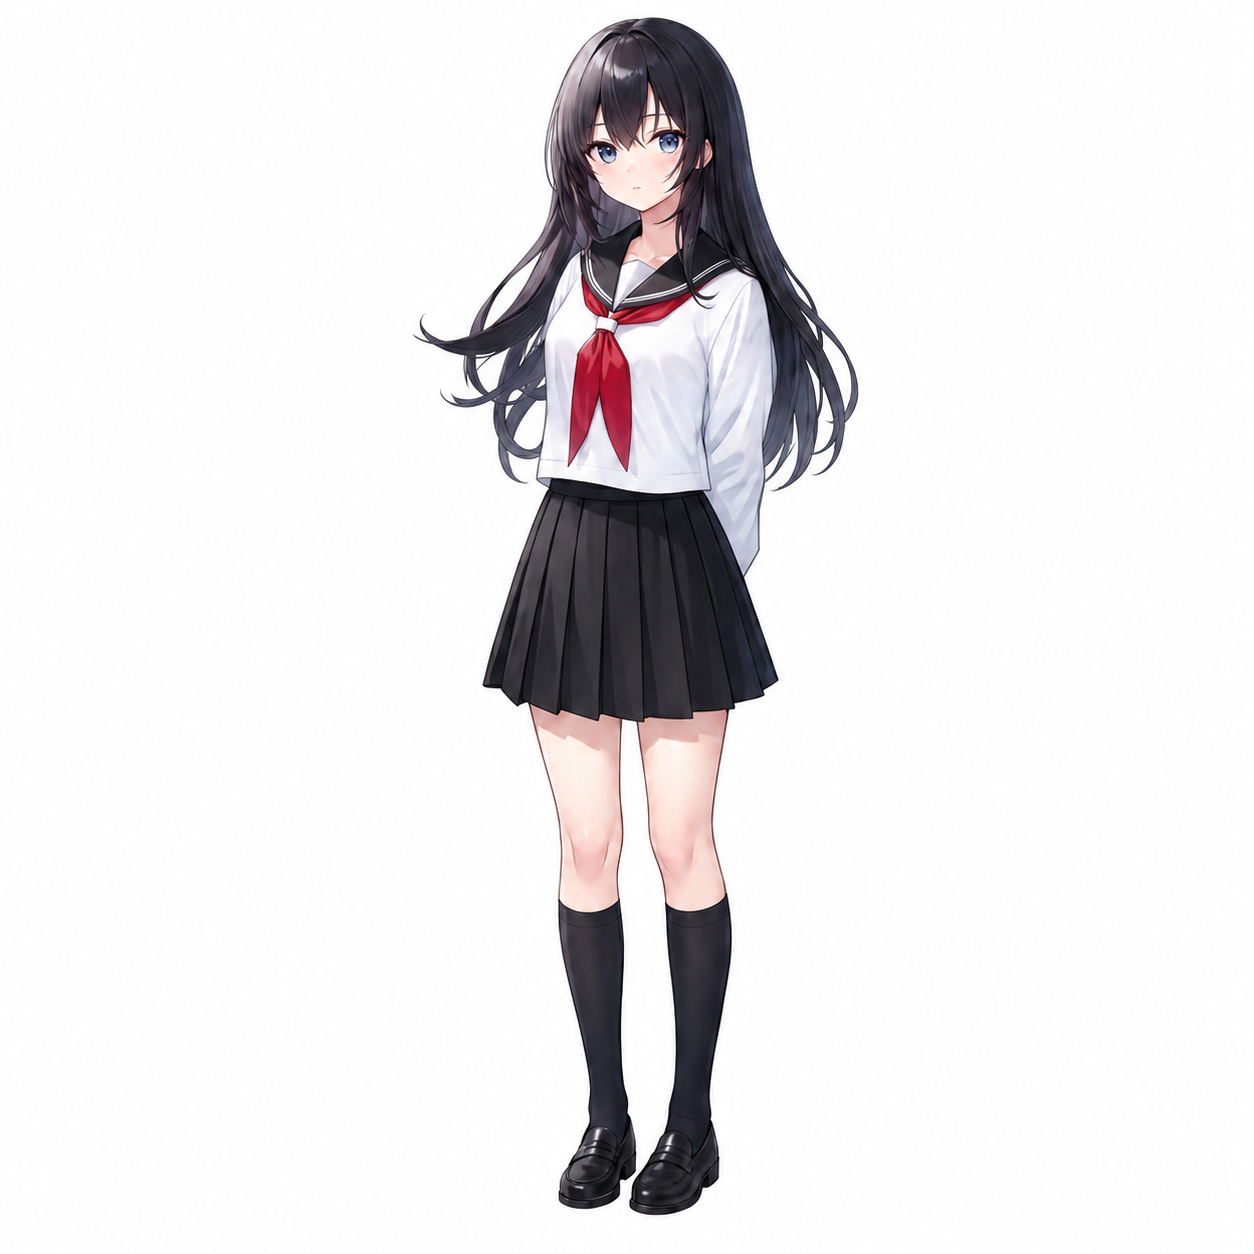
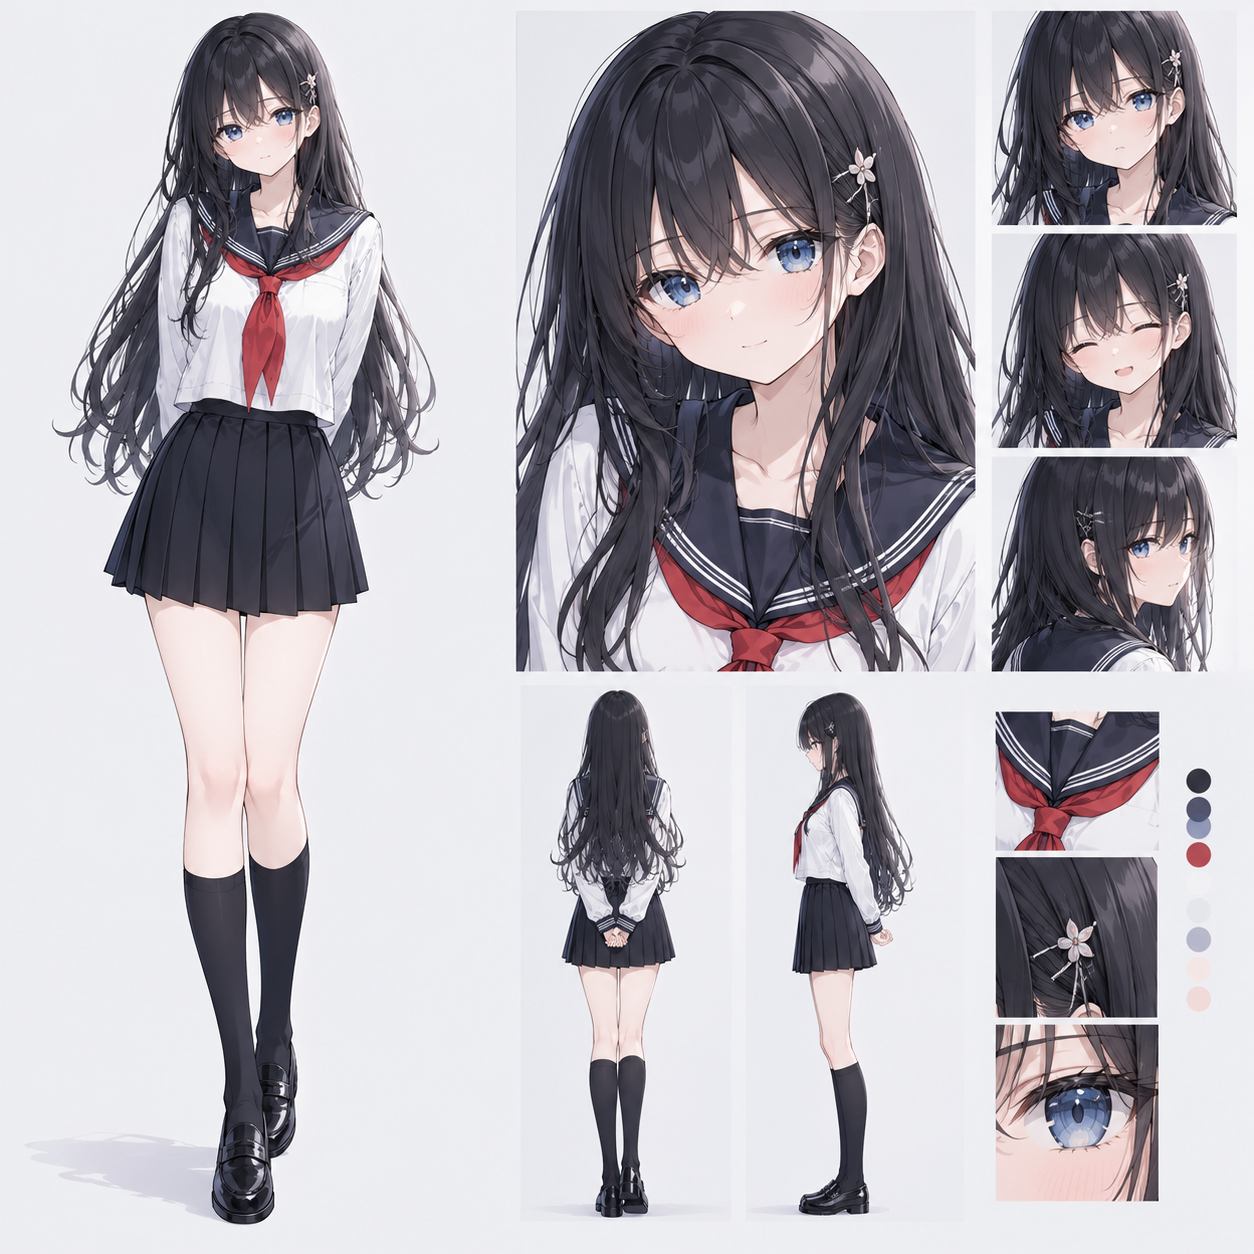
一些微小的更新

diff --git a/postergirl.html b/postergirl.html
@@ -19,11 +19,11 @@
   <meta property="og:title" content="卖萌社看板娘 - 结城 琴音 (Yuki Kotone)">
   <meta property="og:description" content="卖萌社看板娘设定公开：16 岁天津女孩，黑色长发深蓝瞳，水手服打扮，外冷内热的 INTJ 少女。">
   <meta property="og:url" content="https://maimengshe.com/postergirl.html">
-  <meta property="og:image" content="https://maimengshe.com/static/picture/pgm.png">
+  <meta property="og:image" content="https://maimengshe.com/static/picture/pg2.png">
   <meta name="twitter:card" content="summary_large_image">
   <meta name="twitter:title" content="卖萌社看板娘 - 结城 琴音 (Yuki Kotone)">
   <meta name="twitter:description" content="卖萌社看板娘设定公开：外冷内热的 INTJ 少女。">
-  <meta name="twitter:image" content="https://maimengshe.com/static/picture/pgm.png">
+  <meta name="twitter:image" content="https://maimengshe.com/static/picture/pg2.png">
 
   <link rel="preconnect" href="https://fonts.googleapis.com/">
   <link rel="preconnect" href="https://fonts.gstatic.com/" crossorigin="">
@@ -46,7 +46,7 @@
         "name": "结城 琴音",
         "alternateName": "Yuki Kotone",
         "description": "卖萌社看板娘，外冷内热的 INTJ 少女，黑色长发深蓝瞳，常穿水手服。",
-        "image": "https://maimengshe.com/static/picture/pgm.png",
+        "image": "https://maimengshe.com/static/picture/pg2.png",
         "gender": "Female",
         "birthDate": "2002-02-16",
         "nationality": { "@type": "Country", "name": "中国" },
@@ -124,9 +124,9 @@
               </div>
               <div class="thumbnail-list">
                 <img class="thumbnail active" src="static/picture/pg-sd.png" data-title="看板娘 - 设定图" onclick="changeImage(this)" alt="看板娘结城琴音设定图缩略图">
-                <img class="thumbnail" src="static/picture/pg2.png" data-title="看板娘 - 立绘" onclick="changeImage(this)" alt="看板娘结城琴音立绘缩略图">
-                <img class="thumbnail" src="static/picture/pgm.png" data-title="看板娘 - 立绘1" onclick="changeImage(this)" alt="看板娘结城琴音立绘1缩略图">
-                <img class="thumbnail" src="static/picture/pg1.png" data-title="看板娘 - 立绘2" onclick="changeImage(this)" alt="看板娘结城琴音立绘2缩略图">
+                <img class="thumbnail" src="static/picture/pg1.png" data-title="看板娘 - 立绘" onclick="changeImage(this)" alt="看板娘结城琴音立绘缩略图">
+                <img class="thumbnail" src="static/picture/pg2.png" data-title="看板娘 - 立绘1" onclick="changeImage(this)" alt="看板娘结城琴音立绘1缩略图">
+                <img class="thumbnail" src="static/picture/pg3.png" data-title="看板娘 - 立绘2" onclick="changeImage(this)" alt="看板娘结城琴音立绘2缩略图">
               </div>
             </div>
           </div>
